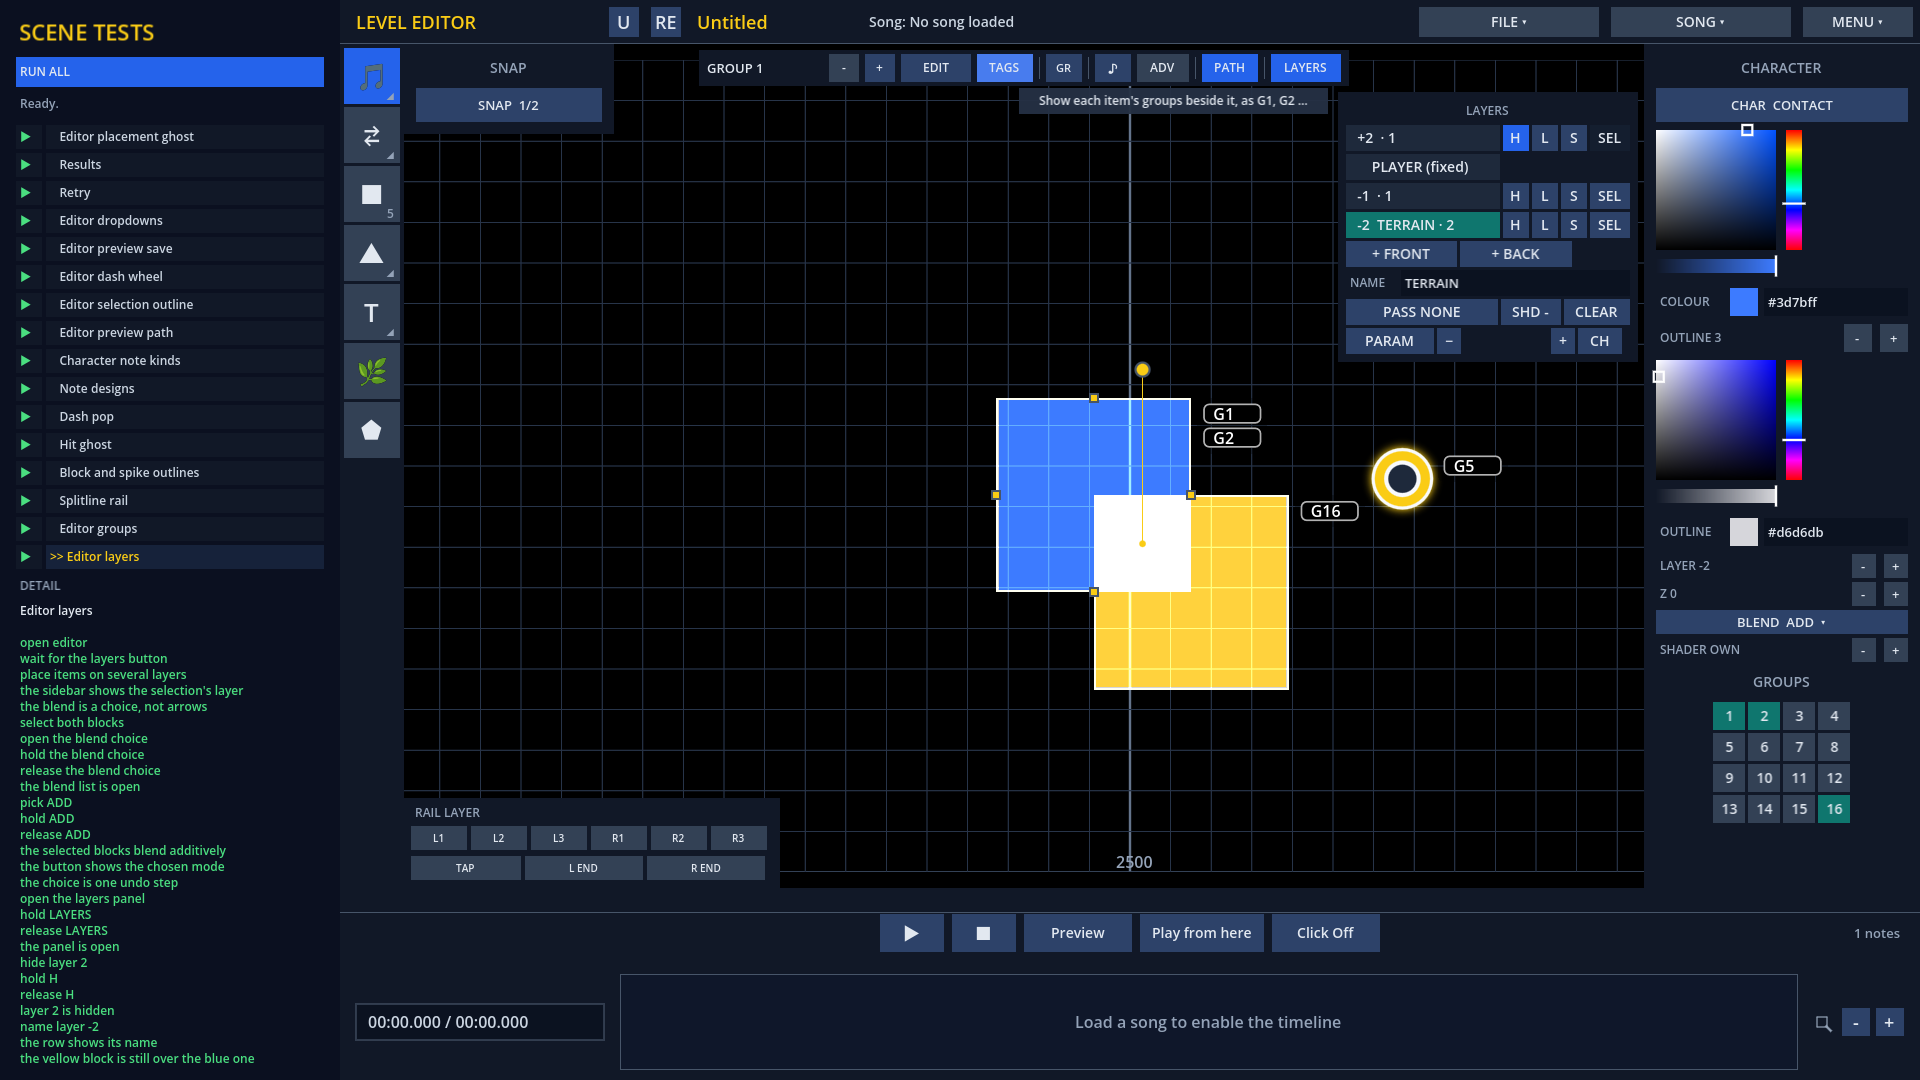
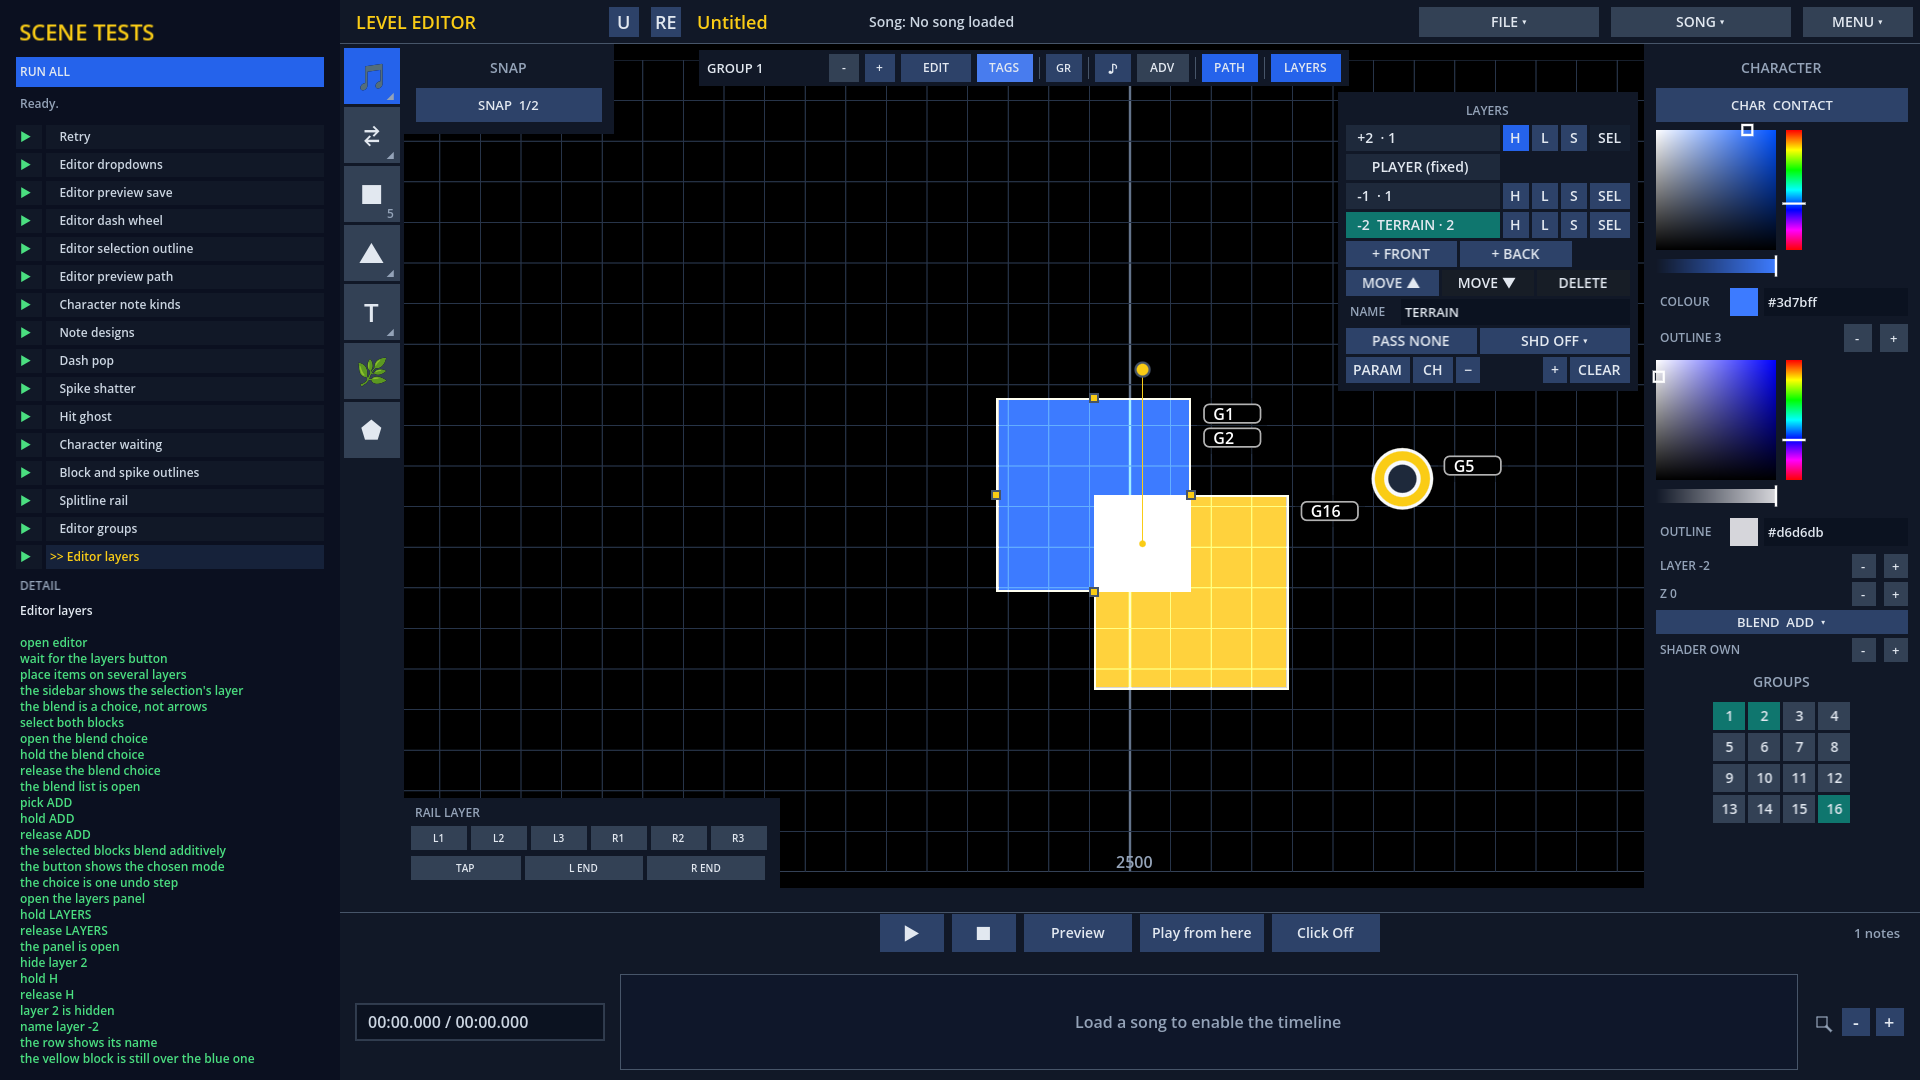
Docs and screenshots: render review follow-ups

diff --git a/docs/render-architecture.md b/docs/render-architecture.md
@@ -32,7 +32,7 @@ These were agreed with the user. Don't revisit them without asking.
 | D11 | **Shaders are keyable.** Layer shader settings are keyed on the layer's own track. Item shader settings are keyed through **groups**: a group owns an item-shader track, and each item picks a **shader source**, either *own* (its static shader, fixed settings) or **one** of its groups. It can only be one, because an item draws with a single material. |
 | D12 | **Buffered groups** (optional, per group): the group's members on one layer draw into an offscreen buffer, which is then drawn into the layer as one image. That gives a uniform fade with no darkening where members overlap. |
 | D13 | A buffered group sits at the **lowest z of its members** on that layer. |
-| D14 | Group colour effects are always applied **per item**. A buffered group has its **own, separate** settings applied to the buffer: buffer tint, buffer alpha, buffer shader (with its own keyed settings) and buffer blend mode. The group's item-shader track and its buffer shader are separate settings. |
+| D14 | Group colour effects are applied **per item**, except a buffered group's **alpha**: that goes on the buffer, so the group fades as one image (changed 2026-11-06, the user's call; its members keep only the colour). A buffered group has its **own, separate** settings applied to the buffer: buffer tint, buffer alpha (a static base, multiplied by the group's fade), buffer shader (with its own keyed settings) and buffer blend mode. The group's item-shader track and its buffer shader are separate settings. |
 | D15 | Ban buffering when the group has members on **more than one layer**. The editor refuses and shows a toast saying why. |
 | D16 | Ban buffering when any member is in **more than one group**. The editor refuses and shows a toast saying why. |
 | D16a | **Buffering is a lock.** Ticking it is refused unless the rules hold. While it's ticked, any edit that would break the rules is refused with a toast: moving a member to another layer, adding a member on another layer, giving a member a second group. Buffering never switches itself off; it stays locked until the user unticks it. |
@@ -254,19 +254,18 @@ layer renders into its **own SubViewport**:
 
 ## 6. Shared core with the animator
 
-Today the animator has this (and the editor has none of it):
+Before step 1 the animator had this (and the editor had none of it):
 - `XafAttachment.ZOrder` as the layer, `MinLayer = -4096`,
   `MaxLayer = 4096` (`Animation/XafPackage.cs`), with list order as the
   tiebreak.
-- `ArtDrawOrder.Of(layer, order)` (`Animation/ArtDrawOrder.cs`): the banded
-  draw index. (Replaced in step 1 by `DrawOrder.Banded`.)
+- `ArtDrawOrder.Of(layer, order)`: the banded draw index. Gone since step 1;
+  `DrawOrder.Banded` (`Core/Layering/`) replaced it.
 - `AnimatorLayerCommands.Rows` / `Move` (`Tools/Animator/Commands/AnimatorLayerCommands.cs`):
   the front-first row list, and moving forward/back (swap layers with a
   neighbour on another layer, step past one on the same layer).
 - Per-pose layer keys (`XafPose.LayerOf`). These stay **animator-only** (D4).
 
-The shared core (new, under `Core/` or a `Rendering/` folder, wherever
-fits the existing layout):
+The shared core (built in step 1 under `Core/Layering/`):
 - `DrawOrder`: (layer, z, list index) → sort key, and the banded index. This
   replaces `ArtDrawOrder`.
 - Layer limits (one min/max for both tools).
@@ -634,6 +633,13 @@ window, i.e. under `canvas_items` stretch like the game):
   failing before step 1. Visual test `editor-layers` (`EditorLayersSceneTest`)
   → `screenshots/editor-layers.png`.
 
+**Follow-up 2026-11-06.** LAYER steps each selected item from its own layer
+(`EditorLayerEdits.StepLayers`) and reads LAYER MIXED when the selection spans
+layers. The panel has MOVE ▲ / MOVE ▼ (`MoveLayer`: swap with the neighbour;
+beside the player, hop over it to ±1 and push that side out) and DELETE
+(`DeleteLayer`, empty layers only), each one undo step. Rows show `[BG]` or
+`[SELF]` for a layer with a pass.
+
 ### Step 5: Layer table in the level  ☑
 - `LevelLayer` entries (number, name, pass kind, pass shader slot, keyed pass
   settings) in `LevelDocument` and the XMF binary.
@@ -831,6 +837,29 @@ inspector.
   namespaces separately completes them all, so the crash is a test-host
   problem rather than a failing test.
 
+**Follow-up 2026-11-06 (sources).** Leaving a group puts an item whose
+shader came from it back on its own. The inspector's SHADER stepper offers
+only groups with a shader track and names it (`SHADER G3 BLUR`).
+
+**Follow-up 2026-11-06 (review fixes).**
+- An unkeyed setting holds the shader's declared default
+  (`instance uniform float x = 1.0;` → `InstanceUniform.Default`), not zero,
+  so a first key starts from it (`ShaderKeyTrack.ValueAt(..., unkeyed)`).
+- **Key lane.** The group panel has a lane under the effect rows showing the
+  selected setting's keys as pins with ease bands. A press on a pin selects
+  it and moves the playhead there; dragging retimes it (it never lands on
+  another key, so dragging over one can't delete it). The lane's cells type
+  the key's moment and value (one number per channel, one number for all, or
+  `#hex` for colours), cycle its easing and delete it. Keying with − / + at a
+  key's moment keeps its easing. `EditorGroupSystem.Keys.cs`,
+  `EditorShaderKeyEdits`.
+- **SHD is a list by name** in the group panel and the layers panel
+  (`ShaderSlotChoice`, on `UiLayers.EditorShaderChoice` so it takes presses
+  over the panels). Changing the shader keeps keys of settings the new one
+  still declares (`EditorShaderKeyEdits.KeepFor`). The layers panel's key row
+  is now PARAM · CH · − value + · CLEAR, like the group panel's.
+- Not done: the layers panel's pass track still has no timeline of its own.
+
 ### Step 9: Layer passes  ☑
 - Pass kind on a layer: none / background reader / self-contained (D8).
 - Background reader: a back-buffer refresh after the layer's last item, then a
@@ -895,6 +924,20 @@ and the XMF `LayerTable` chunk.
   with its own keyed settings, and buffer blend (D14). The buffer shader is
   separate from the item-shader track.
 - Buffering is a lock (D16a). Ticking it is refused unless the rules hold:
+  - members on more than one layer → refuse, toast "buffered groups must sit on
+    one layer" (D15)
+  - a member in more than one group → refuse, toast "items in a buffered group
+    can't be in other groups" (D16)
+- While it's ticked, every edit that would break a rule is refused with the
+  same toast: moving a member to another layer, adding a member on another
+  layer, giving a member a second group, pasting or duplicating into a broken
+  state. Check this in one place (a validator the command layer calls) so new
+  commands can't skip it. Buffering never switches itself off.
+- Drawing: a CanvasGroup at the lowest member z on the layer (D13); members draw
+  into it in their own z order; group colour still applies per item (D14).
+- Tests: the ban rules; slot placement. Check: one screenshot of overlapping
+  members fading uniformly next to the same group unbuffered.
+
 **Started 2026-11-05** (data, rules, drawing, the panel's toggle and the
 screenshot landed; settings UI and edit guards still to do):
 - `GroupDefinition` gained `Buffered`, `BufferTint`, `BufferAlpha`,
@@ -942,20 +985,6 @@ screenshot landed; settings UI and edit guards still to do):
   with its own keys, blend) and the edit guards (layer moves, membership,
   paste/duplicate) that refuse edits breaking a locked buffer.
 
-  - members on more than one layer → refuse, toast "buffered groups must sit on
-    one layer" (D15)
-  - a member in more than one group → refuse, toast "items in a buffered group
-    can't be in other groups" (D16)
-- While it's ticked, every edit that would break a rule is refused with the
-  same toast: moving a member to another layer, adding a member on another
-  layer, giving a member a second group, pasting or duplicating into a broken
-  state. Check this in one place (a validator the command layer calls) so new
-  commands can't skip it. Buffering never switches itself off.
-- Drawing: a CanvasGroup at the lowest member z on the layer (D13); members draw
-  into it in their own z order; group colour still applies per item (D14).
-- Tests: the ban rules; slot placement. Check: one screenshot of overlapping
-  members fading uniformly next to the same group unbuffered.
-
 **Done 2026-11-06.** The buffer settings row and the lock's edit guards are in.
 - **Composite tint and alpha.** `CanvasItemSetCanvasGroupMode`'s C# defaults
   are `clearMargin: 5, fitEmpty: false, fitMargin: 0`, not the `CanvasGroup`
@@ -989,6 +1018,33 @@ screenshot landed; settings UI and edit guards still to do):
   group once its block moves down, refuses a second group and a layer move, and
   drives the whole buffer row. Screenshots: `editor-groups` (the buffer row)
   and the refreshed `play-buffered-group`.
+
+**Follow-up 2026-11-06 (second pass).**
+- **Buffered fades (D14 changed).** `GroupModulationSystem` leaves a buffered
+  member's `GroupColor` / `GroupOutlineColor` alpha at 1, and
+  `DrawBufferedGroup` multiplies the buffer alpha by
+  `GroupModulation.BufferAlpha` (the group's own D6 alpha at the playhead), so
+  COLOR fades on a buffered group fade the image, with no darker overlaps.
+  `GroupModulation.BufferedGroup` is the one membership test both use.
+- **The lock in one place.** `EditorHistory.Record` refuses any edit that
+  newly breaks a buffered group (it compares `GroupBufferRules.BrokenGroups`
+  at capture and at record): the level goes back to before, nothing is
+  recorded, and the rule is posted as a `WarningRequest`. A level that was
+  already broken stays editable. `EditorBufferGuard` still refuses up front
+  where a command can ask, so the usual path never rebuilds.
+- **Panel.** The shader row has ITEM SHADER / BUFFER tabs instead of the TRACK
+  toggle; BUFFER needs the group buffered, and the buffer's TINT, alpha and
+  BLEND show only there. TINT opens the swatch palette (no alpha steps; the
+  buffer alpha is its own label − +), BLEND is a list. Values read label then
+  − +. The scrim no longer covers the sidebar, so the groups grid and layer
+  inspector work with the panel open.
+
+**Follow-up 2026-11-06 (review fixes).** A buffered group is drawn after
+its layer has begun and after the player wedge, so a group that opens its
+layer no longer lands in the previous layer (or its pass viewport), and one on
+layer +1 no longer draws behind the player. Each layer's slice of a group is
+its own buffer, so members a file left on another layer still draw instead of
+vanishing.
 
 ### Step 11: Screen-read regions  ☑
 - A new placeable item: a rect with a layer and z. When reached in draw order it
@@ -1040,6 +1096,12 @@ screenshot landed; settings UI and edit guards still to do):
   `editor-screen-read` (the tool places, outlines and resizes a region).
   Screenshots: `screenshots/play-screen-read.png` and
   `screenshots/editor-screen-read.png`.
+
+**Follow-up 2026-11-06.** Regions can join groups (their moves carry the
+copy rect with what it reads under). The region chunk sets the count's top bit
+when each region also stores its group mask, so 2.6 files still read. A new
+region starts at the default size or a third of the view, whichever is
+smaller, so it fits where it's placed.
 
 ### Step 12: Animator on the shared render path  ☑
 - Attachments, cloth, chains and effects are sorted through `DrawOrder`.

diff --git a/docs/handoff-render.md b/docs/handoff-render.md
@@ -1,54 +1,33 @@
-# Hand-off: render-architecture.md — all steps landed
+# Hand-off: render-architecture.md: all steps landed
 
-Updated 2026-11-06. `docs/render-architecture.md` has steps **0–12 ticked**.
-Everything is *uncommitted* in `/var/home/dhs/xanadu`, mixed with the earlier
-steps' work.
+Updated 2026-11-06. `docs/render-architecture.md` has steps **0–12 ticked**,
+plus review follow-ups noted under steps 4, 8, 10 and 11. Steps 0–12 are
+committed (`592f945` … `d5ab569`); the follow-ups are not yet.
 
-## What is done
+## Where things stand
 
-- **Step 10, buffered groups.** Buffer tint, alpha, shader (with its own
-  `BufferKeys` track) and blend are in the group panel's shader row. The C#
-  defaults of `CanvasItemSetCanvasGroupMode` are not the node's: they leave
-  `fitEmpty` off, so the group's own command never exists and self modulate is
-  ignored. `GodotShaderCanvasItems.SetCanvasGroup` now passes the node's
-  `10, true, 10` and a buffered group fades uniformly. The buffer lock's edit
-  guards live in `Systems/Editor/EditorBufferGuard` and are used by the layer
-  stepper and both group-membership paths; a refusal is a `WarningRequest`.
-  Tests: `GroupBufferTests`, `EditorLayersTests`, `editor-groups`.
-  Screenshots: `play-buffered-group`, `editor-groups`.
-- **Step 11, screen-read regions.** `ScreenReadRegion` is a placed rect with an
-  `ItemLayer`; `PlayfieldDrawKind.ScreenRead` refreshes the back buffer where
-  the order reaches it via `IRectCanvas.CopyScreen(rect)`. The canvas pools a
-  copy item and `CanvasItemSetCopyToBackbuffer` gets render-target pixels
-  (viewport `GetFinalTransform`); a self-contained layer copies its whole
-  viewport buffer. The editor tool sits in the *Text and screen reads* flyout,
-  places on the current layer, draws the ghost and the outline (after the item
-  pass), and resizes through `GridPlacement`. Document, XMF (chunk 23 / 18,
-  minors 2.6), mapper, undo and copy/paste carry it. Tests:
-  `ScreenReadTests`, `ShaderRoutingCanvasTests`; screenshots:
-  `play-screen-read`, `editor-screen-read`.
-- **Step 12, animator order.** `Animation/AnimatorDrawOrder` states the order
-  once (attachment list order, then cloth, chains and effects in bands) and the
-  layer panel's row slot and `SvgAttachmentVisuals` both use it, with
-  `DrawOrder.Banded` when layers are contained. Tests:
-  `AnimatorDrawOrderTests`. **Not built (optional in the plan):** a buffered
-  whole character for a uniform fade; the contained path is the base for it.
+- Buffered groups fade as one image: the group's alpha is on the buffer
+  (D14 changed 2026-11-06). The lock is enforced in `EditorHistory.Record`
+  for every edit, with `EditorBufferGuard` as the up-front check.
+- Shader keys: the group panel's key lane (pins, ease bands, drag to retime,
+  typed time and value, EASE, delete), SHD as a named list in both panels,
+  unkeyed settings at the shader's declared default.
+- Layers panel: MOVE ▲ / ▼, DELETE (empty only), pass tags on rows.
+- Screen-read regions can be grouped and start sized to the view.
+
+## Not done
+
+- The layers panel's pass track has no timeline of its own (keys are edited
+  with the row's − / + only).
+- Optional from step 12: a whole character as a buffered group.
 
 ## Verification
 
-Build green: `dotnet build Xanadu.csproj`, `Tests/Xanadu.Tests.csproj`,
-`Tests/VisualTests/Xanadu.VisualTests.csproj`.
-
-Tests per namespace (a single full run aborts in the test host after ~1245 of
-~1800 tests in this sandbox — pre-existing):
-`Groups` 93, `Editor` 252, `Playfields` 117, `Shaders` 64,
-`Animation` 863 pass with the same **7 pre-existing `AnimatorDrawTests`**
-failing, `Characters` 47, `UI` 63, `Scenes` 99, `History` 7,
-`Physics` 24, `Particles` 4, `Layering`, `Architecture` 3.
-
-Visual tests passing: `play-screen-read`, `editor-screen-read`,
-`play-buffered-group`, `editor-groups`, `editor-tool-groups`,
-`play-pass-blur`, `play-pass-distort`.
+Build: `dotnet build Xanadu.csproj`, `Tests/Xanadu.Tests.csproj`,
+`Tests/VisualTests/Xanadu.VisualTests.csproj`. Run test namespaces one at a
+time (a single full run aborts in the test host). Visual tests:
+`editor-groups`, `editor-layers`, `editor-screen-read`, `editor-blend-choice`,
+`play-buffered-group`.
 
 ## Working notes
 
@@ -56,8 +35,7 @@ Visual tests passing: `play-screen-read`, `editor-screen-read`,
   `/home/dhs/Documents/Godot_v4.8-dev7_mono_linux_x86_64/Godot_v4.8-dev7_mono_linux.x86_64`
 - Visual test + screenshot:
   `"$GODOT" --path Tests/VisualTests --fullscreen res://VisualTests.tscn -- --visual-test=<slug> --visual-test-shot=/var/home/dhs/xanadu/screenshots/<slug>.png`
-- New source files still have untracked `.uid` files (Godot generates them);
-  the repo tracks `.uid` for older scripts, so decide whether to commit them.
-- The visual harness and `Main` pass their node as `passHost` to
-  `XanaduSystemRoot`; play and the editor each get their own
-  `GodotPassSurfaces`.
+  Without `--visual-test-shot` the harness doesn't exit. A run killed
+  mid-edit leaves `user://recovery/untitled.recovery.xmf` in the
+  "Xanadu Visual Tests" user data, and the next editor test opens on the
+  recovery dialog; delete the file.
